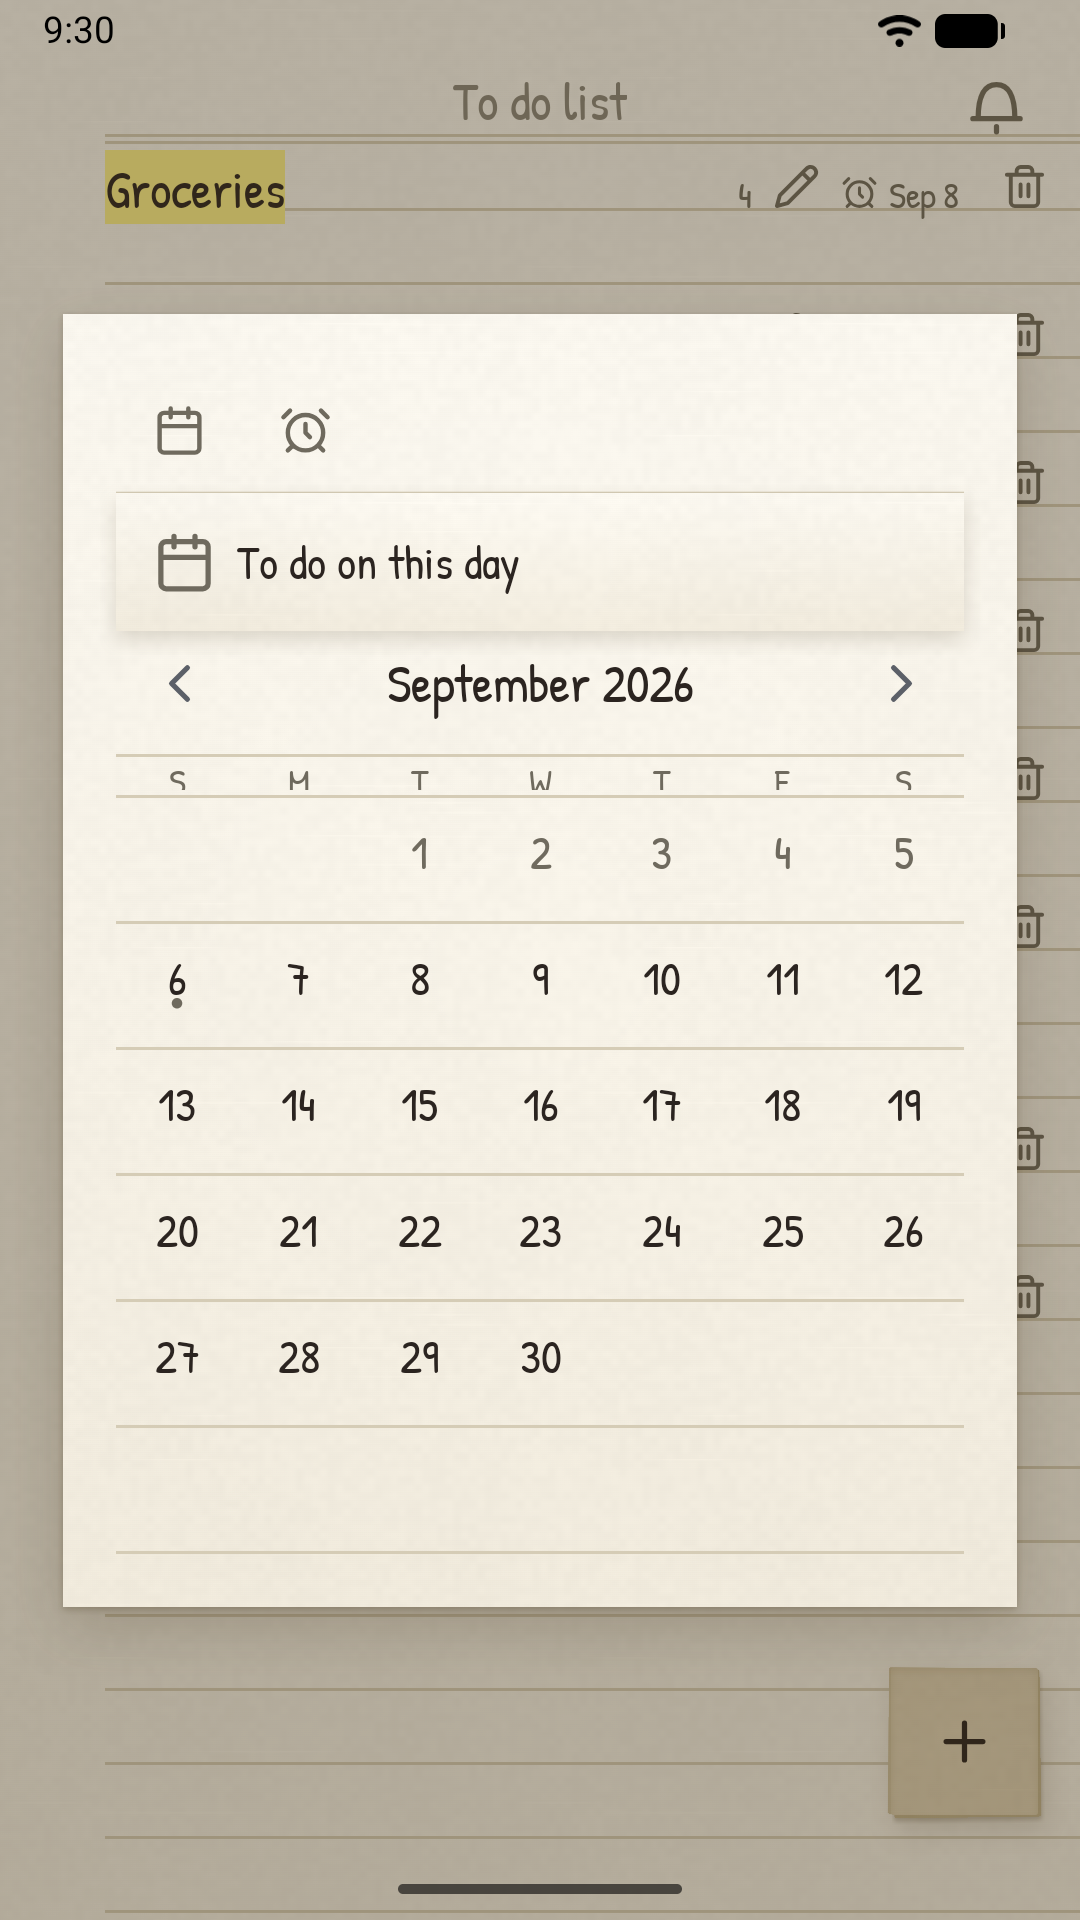
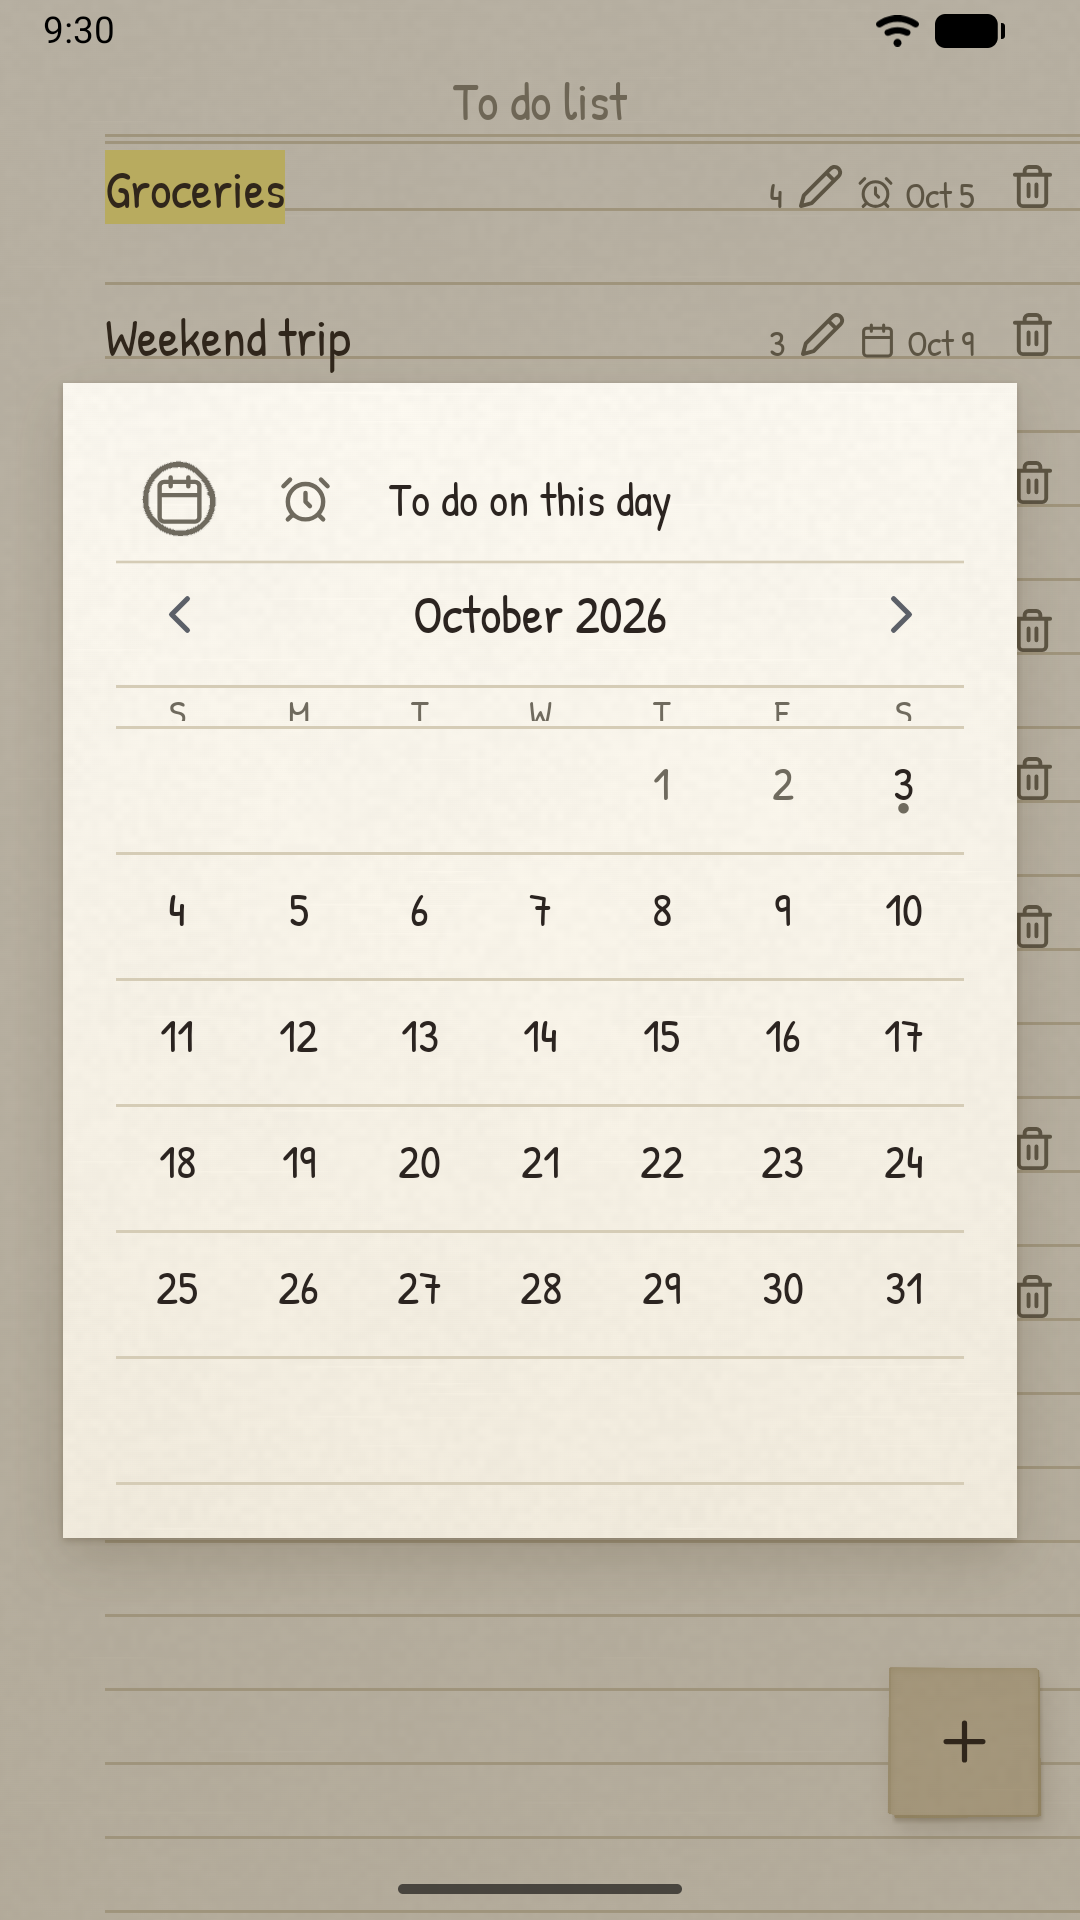
chore: reshoot the store now lists carry their own reminder time

diff --git a/store-assets/tools/make-demo-database.py b/store-assets/tools/make-demo-database.py
@@ -2,9 +2,9 @@ import sqlite3, os, sys
 
 OUT = sys.argv[1]
 if os.path.exists(OUT): os.remove(OUT)
-IDENTITY = "714f29a6c2859a9709de50688104e017"
+IDENTITY = "b729c140d99c9e64b7ff2c977a7fa1bd"
 
-TODAY = 20702  # 2026-09-06
+TODAY = 20729  # 2026-10-03
 
 # (id, name, targetDay, dueDay, colour, [(title, completed), ...])
 LISTS = [
@@ -71,7 +71,7 @@ if "--big" in sys.argv:
 
 db = sqlite3.connect(OUT)
 c = db.cursor()
-c.execute("CREATE TABLE IF NOT EXISTS `todo_lists` (`id` TEXT NOT NULL, `name` TEXT NOT NULL, `position` INTEGER NOT NULL, `targetDate` INTEGER, `dueDate` INTEGER, `colour` TEXT NOT NULL, PRIMARY KEY(`id`))")
+c.execute("CREATE TABLE IF NOT EXISTS `todo_lists` (`id` TEXT NOT NULL, `name` TEXT NOT NULL, `position` INTEGER NOT NULL, `targetDate` INTEGER, `dueDate` INTEGER, `reminderMinute` INTEGER, `colour` TEXT NOT NULL, PRIMARY KEY(`id`))")
 c.execute("CREATE TABLE IF NOT EXISTS `todo_items` (`id` TEXT NOT NULL, `title` TEXT NOT NULL, `listId` TEXT NOT NULL, `completed` INTEGER NOT NULL, `completedAt` INTEGER, `position` INTEGER NOT NULL, PRIMARY KEY(`id`), FOREIGN KEY(`listId`) REFERENCES `todo_lists`(`id`) ON UPDATE NO ACTION ON DELETE CASCADE )")
 c.execute("CREATE INDEX IF NOT EXISTS `index_todo_items_listId` ON `todo_items` (`listId`)")
 c.execute("CREATE TABLE IF NOT EXISTS room_master_table (id INTEGER PRIMARY KEY, identity_hash TEXT)")
@@ -79,14 +79,14 @@ c.execute("INSERT OR REPLACE INTO room_master_table (id, identity_hash) VALUES (
 
 done_at = 1787000000000
 for pos, (lid, name, target, due, colour, items) in enumerate(LISTS):
-    c.execute("INSERT INTO todo_lists VALUES (?,?,?,?,?,?)", (lid, name, pos, target, due, colour))
+    c.execute("INSERT INTO todo_lists (id, name, position, targetDate, dueDate, colour) VALUES (?,?,?,?,?,?)", (lid, name, pos, target, due, colour))
     for i, (title, completed) in enumerate(items):
         done_at += 60000
         c.execute("INSERT INTO todo_items VALUES (?,?,?,?,?,?)",
                   (f"{lid}-i{i}", title, lid, completed, done_at if completed else None, i))
 
 db.commit()
-c.execute("PRAGMA user_version = 8")
+c.execute("PRAGMA user_version = 9")
 c.execute("PRAGMA journal_mode = TRUNCATE")
 db.commit()
 db.close()

diff --git a/store-assets/tools/capture-screenshots.py b/store-assets/tools/capture-screenshots.py
@@ -98,6 +98,12 @@ def seed(dev):
 
 def launch(dev):
     shell(dev, f"am start -n {PKG}/.ui.TodoListsActivity")
+    for _ in range(30):
+        if find(dump(dev), text="Groceries") is not None:
+            break
+        time.sleep(1)
+    else:
+        raise RuntimeError("the page of lists never drew")
     time.sleep(4)
     hush(dev)
     time.sleep(1)

diff --git a/store-assets/README.md b/store-assets/README.md
@@ -1,9 +1,10 @@
 # Store assets
 
 Everything the Play Console listing needs, and the tooling that regenerates it.
-All of it was redrawn on 2026-09-06 for the row controls, the date slot and the
-per-list colours; the 2026-08-27 set shows the page before those, and anything
-older in the history shows the retired Material 3 build.
+The screenshots were reshot on 2026-10-03 for the tightened row controls and the
+per-list reminder time; the rest was redrawn on 2026-09-06 for the row controls,
+the date slot and the per-list colours. The 2026-08-27 set shows the page before
+those, and anything older in the history shows the retired Material 3 build.
 
 ```
 listing/
@@ -81,6 +82,11 @@ Snoozing once is not enough. The app posts its own daily reminder as soon as it
 has been seeded and launched, and that glyph lands in the status bar of every
 capture after it, so `POST_NOTIFICATIONS` is revoked up front and the snooze is
 run again after each launch.
+
+A launch waits until the first list is on the page and then a few seconds more,
+rather than sleeping a fixed time: a cold start after `wm size` can outlast any
+fixed sleep, and the list is in the UI tree while the splash is still fading out
+over it, so both halves of the wait are needed.
 
 `TODAY` in `make-demo-database.py` is an epoch day and is what makes the amber
 "due today" row amber. Move it forward before a fresh capture run, or the dates
